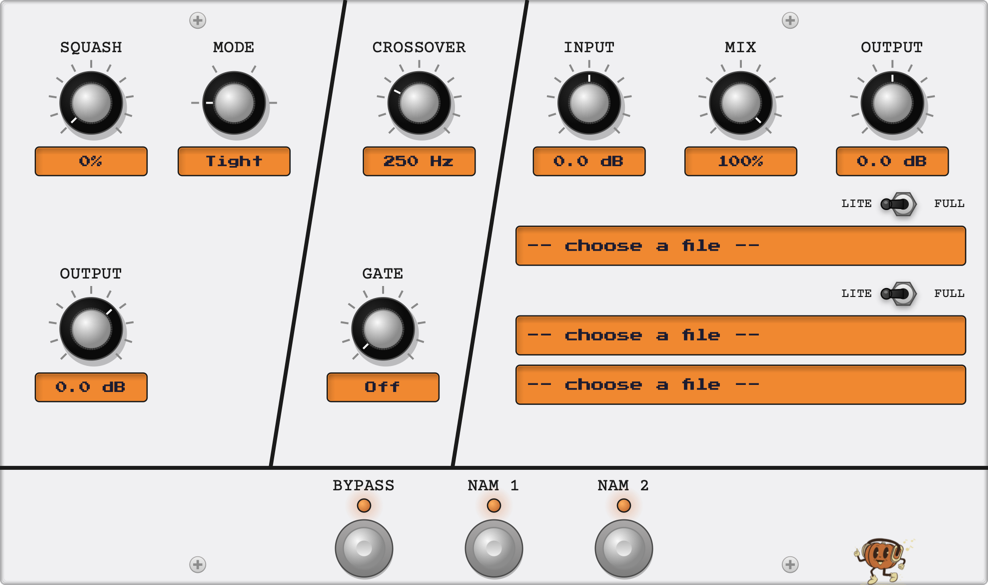
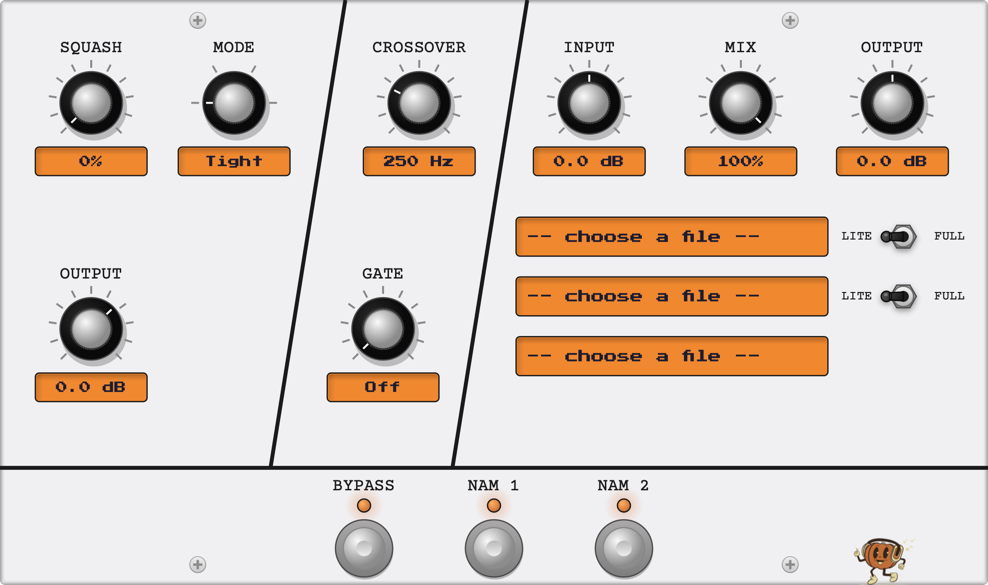
OctoBASS pedal: narrower file LCDs with inline quality levers

Changed region(s): [[0.5162, 0.3385, 1.0, 0.7077]]

diff --git a/plugins/octobass/lv2/bundle/modgui/stylesheet.css b/plugins/octobass/lv2/bundle/modgui/stylesheet.css
@@ -184,7 +184,7 @@
 
 .mod-pedal-octobass .opc-nam1-quality {
     left: 864.5px;
-    top: 175.5px;
+    top: 208px;
     width: 78px;
     height: 57px;
     background-image: url(/resources/toggle.png{{{ns}}});
@@ -201,7 +201,7 @@
 
 .mod-pedal-octobass .opc-nam2-quality {
     left: 864.5px;
-    top: 265.2px;
+    top: 267.8px;
     width: 78px;
     height: 57px;
     background-image: url(/resources/toggle.png{{{ns}}});
@@ -269,22 +269,22 @@
 
 .mod-pedal-octobass .opc-file[mod-parameter-uri$="#nam1Model"] {
     left: 516.1px;
-    top: 226.2px;
-    width: 449.8px;
+    top: 217.1px;
+    width: 312px;
     height: 39px;
 }
 
 .mod-pedal-octobass .opc-file[mod-parameter-uri$="#nam2Model"] {
     left: 516.1px;
-    top: 315.9px;
-    width: 449.8px;
+    top: 276.9px;
+    width: 312px;
     height: 39px;
 }
 
 .mod-pedal-octobass .opc-file[mod-parameter-uri$="#cabinetIr"] {
     left: 516.1px;
-    top: 365.3px;
-    width: 449.8px;
+    top: 336.7px;
+    width: 312px;
     height: 39px;
 }
 

diff --git a/plugins/octobass/lv2/tools/ModguiAssetRenderer.cpp b/plugins/octobass/lv2/tools/ModguiAssetRenderer.cpp
@@ -44,8 +44,11 @@ constexpr float FootswitchSpacing = 100.0f;
 constexpr float FootswitchRowCentreX = 380.0f;
 constexpr float FootswitchLabelY = DividerY + 6.0f;
 constexpr float FootswitchY = FootswitchLabelY + LabelHeight;
-constexpr std::array<float, 2> LeverRowY{{143.0f, 212.0f}};
-constexpr std::array<float, 3> FileLcdY{{174.0f, 243.0f, 281.0f}};
+constexpr std::array<float, 3> FileLcdY{{167.0f, 213.0f, 259.0f}};
+constexpr float QualityLeverX =
+    RightZoneX + RightZoneWidth - LeverLabelWidth - LeverLabelGap - LeverWidth;
+constexpr float FileLcdX = RightZoneX + 2.0f;
+constexpr float FileLcdWidth = QualityLeverX - LeverLabelGap - LeverLabelWidth - 8.0f - FileLcdX;
 constexpr float ButtonMargin = 8.0f;
 constexpr int KnobFrames = 65;
 constexpr float VersionTextY = PedalHeight - 15.5f - 5.0f;
@@ -142,15 +145,13 @@ std::vector<Control> buildControls()
   controls.push_back(knob("high_output_gain", "OUTPUT", RightZoneX + 2.0f * columnW, columnW, Row1Y,
                           Widget::Knob, 0.5f, "0.0 dB"));
 
-  const float zoneRight = RightZoneX + RightZoneWidth;
-  const float qualityX = zoneRight - LeverLabelWidth - LeverLabelGap - LeverWidth;
   for (int slot = 0; slot < 2; ++slot)
   {
-    const float y = LeverRowY[static_cast<size_t>(slot)];
+    const float y = FileLcdY[static_cast<size_t>(slot)] + (LcdHeight - LeverHeight) * 0.5f;
     controls.push_back({"nam" + std::to_string(slot + 1) + "_quality",
                         Widget::QualityLever,
                         "",
-                        {qualityX, y, LeverWidth, LeverHeight},
+                        {QualityLeverX, y, LeverWidth, LeverHeight},
                         {0, 0, 0, 0},
                         false,
                         0.0f,
@@ -183,8 +184,7 @@ std::vector<FileSlot> buildFileSlots()
   const std::array<std::string, 3> parameters = {"nam1Model", "nam2Model", "cabinetIr"};
   std::vector<FileSlot> slots;
   for (size_t i = 0; i < parameters.size(); ++i)
-    slots.push_back(
-        {parameters[i], {RightZoneX + 2.0f, FileLcdY[i], RightZoneWidth - 4.0f, LcdHeight}});
+    slots.push_back({parameters[i], {FileLcdX, FileLcdY[i], FileLcdWidth, LcdHeight}});
   return slots;
 }
 

diff --git a/scripts/mod-sim/ui_check.py b/scripts/mod-sim/ui_check.py
@@ -126,6 +126,25 @@ def check_right_zone(page: Page):
              document.querySelector(`.mod-pedal-octobass .opc-file[mod-parameter-uri$="#${p}"]`).offsetTop)""")
     check("LCDs are closer together", tops[1] - tops[0] <= 92 and tops[2] - tops[1] <= 92, str(tops))
 
+    boxes = page.evaluate(
+        """() => ['nam1Model', 'nam2Model', 'cabinetIr'].map(p => {
+             const e = document.querySelector(`.mod-pedal-octobass .opc-file[mod-parameter-uri$="#${p}"]`);
+             return [e.offsetLeft, e.offsetTop, e.offsetWidth, e.offsetHeight];
+           })""")
+    widths = [box[2] for box in boxes]
+    check("LCD slots share one width", len(set(widths)) == 1, str(widths))
+    check("LCD slots are narrower than the zone", widths[0] <= 330, str(widths))
+    for slot, (left, top, width, height) in zip(["nam1", "nam2"], boxes):
+        lever = page.evaluate(
+            f"""() => {{ const e = document.querySelector('.mod-pedal-octobass .opc-{slot}-quality');
+                        return [e.offsetLeft, e.offsetTop, e.offsetHeight]; }}""")
+        lcd_centre = top + height / 2
+        lever_centre = lever[1] + lever[2] / 2
+        check(f"{slot} quality lever is inline with its LCD", abs(lcd_centre - lever_centre) <= 2,
+              f"lcd {lcd_centre} lever {lever_centre}")
+        check(f"{slot} quality lever is right of its LCD", lever[0] > left + width,
+              f"lever {lever[0]} lcd right {left + width}")
+
 
 def check_quality_levers(page: Page):
     for slot in ["nam1", "nam2"]:

diff --git a/plugins/octobass/lv2/README.md b/plugins/octobass/lv2/README.md
@@ -29,7 +29,7 @@ Native LV2 wrapper around `octobass-core` for MOD Audio devices (Dwarf, Duo X) a
 - File loads, clears and NAM quality changes run on the LV2 worker thread; `run()` does not allocate.
 - The pedal has no Solo buttons; the Solo ports are in MOD's settings panel. Both Solo ports on: the most recently engaged solo wins, and the modgui clears the other Solo port.
 - The footer has three footswitches with status LEDs: BYPASS (plugin bypass), NAM 1 and NAM 2 (slot on/off). A lit LED means the stage is running.
-- Each NAM slot has a LITE/FULL lever above its LCD. It shows FULL at quality >= 50% and sets quality to 0% or 100% when clicked.
+- Each NAM slot has a LITE/FULL lever to the right of its LCD. It shows FULL at quality >= 50% and sets quality to 0% or 100% when clicked.
 - Saved state stores file paths through `state:mapPath`.
 - LV2 versions have no major field, and hosts treat an odd minor or micro version as a development build (mod-ui labels it Testing). The encoding keeps every release even and increasing. MINOR must stay below 100.
 - The version is written into `manifest.ttl` and `modgui/icon.html` from their `.in` templates when the bundle is assembled.
